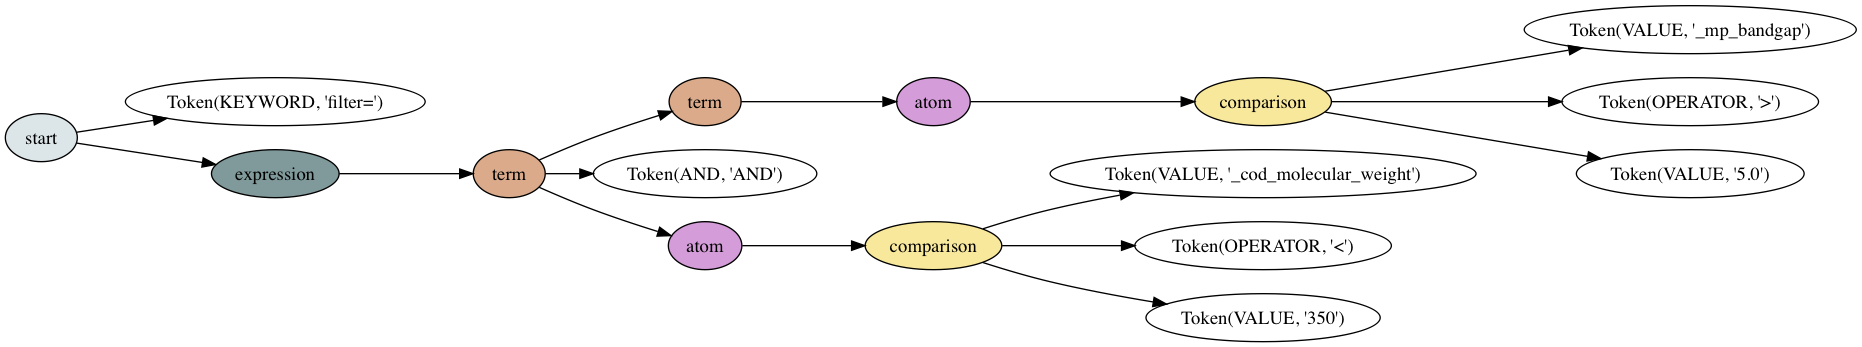
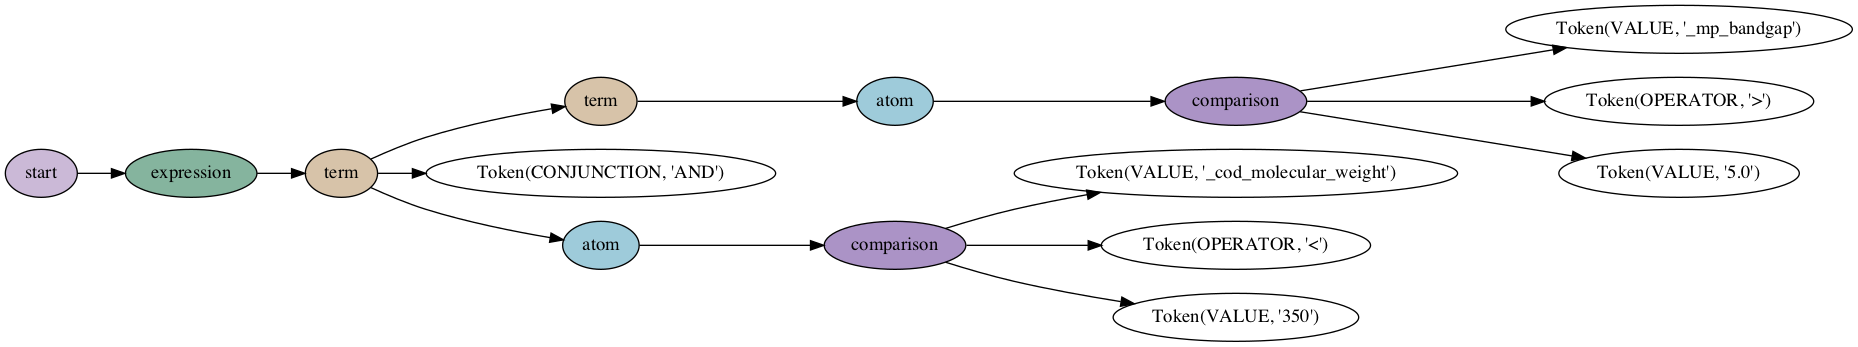
Update readme

diff --git a/README.md b/README.md
@@ -15,8 +15,8 @@ This library is under development. Progress is expected during the [CECAM Worksh
 
 ### Developing
 
-1. Clone this repository to your computer and install the requirements
 ```
+# Clone this repository to your computer
 git clone git@github.com:Materials-Consortia/optimade-python-tools.git
 cd optimade-python-tools
 
@@ -24,7 +24,15 @@ cd optimade-python-tools
 conda create -n optimade python=3.6
 conda activate optimade
 
+# Install package and requirements in editable mode.
 pip install -e .
+
+# Optional: Install MongoDB (and set `USE_REAL_MONGO = yes` in optimade/server/congig.ini)
+# Below method installs in conda environment and
+# - starts server in background
+# - ensures and uses ~/dbdata directory to store data
+conda install -c anaconda mongodb
+mkdir -p ~/dbdata && mongod --dbpath ~/dbdata --syslog --fork 
 
 # Start a development server (auto-reload on file changes at http://localhost:5000
 uvicorn optimade.server.main:app --reload --port 5000
@@ -35,13 +43,6 @@ open http://localhost:5000/docs
 open http://localhost:5000/openapi.json
 ```
 
-2. (optional) Have yourself some test MongoDB data:
-```
-wget https://www.dropbox.com/s/v8rkfu4zfi6xl2o/optimade-structures-test.tar.gz?dl=0 -O optimade-structures-test.tar.gz
-tar zxvf optimade-structures-test.tar.gz
-mongorestore -d optimade -c structures dump/optimade/structures.bson.gz --gzip
-```
-
 ### ===For now, be cautious about the below sections. They may not be up to date===
 
 ### Getting Started
@@ -49,28 +50,34 @@ mongorestore -d optimade -c structures dump/optimade/structures.bson.gz --gzip
 Install via `pip install optimade`. Example use:
 
 ```python
-from optimade.filter import Parser
+from optimade.filterparser import Parser
 
-p = Parser(version=(0, 9, 5))
-p.parse("filter=a<3")
+p = Parser(version=(0,9,7))
+tree = p.parse("nelements<3")
+print(tree)
 ```
 ```
 Tree(start, [Token(KEYWORD, 'filter='), Tree(expression, [Tree(term, [Tree(atom, [Tree(comparison, [Token(VALUE, 'a'), Token(OPERATOR, '<'), Token(VALUE, '3')])])])])])
 ```
 ```python
-p = Parser()
-p.version
-```
-```
-(0, 9, 5)
-```
-```python
-tree = p.parse('filter=_mp_bandgap > 5.0 AND _cod_molecular_weight < 350')
-print(p)
+print(tree.pretty())
 ```
 ```
 start
-  filter=
+  expression
+    term
+      atom
+        comparison
+          nelements
+          <
+          3
+```
+```python
+tree = p.parse('_mp_bandgap > 5.0 AND _cod_molecular_weight < 350')
+print(tree.pretty())
+```
+```
+start
   expression
     term
       term
@@ -87,7 +94,7 @@ start
           350
 ```
 ```python
-# Assumes graphviz installed on system and `pip install pydot`
+# Assumes graphviz installed on system (e.g. `conda install -c anaconda graphviz`) and `pip install pydot`
 from lark.tree import pydot__tree_to_png
 
 pydot__tree_to_png(tree, "exampletree.png")
@@ -95,28 +102,27 @@ pydot__tree_to_png(tree, "exampletree.png")
 ![example tree](exampletree.png)
 
 ### Flow for Parsing User-Supplied Filter and Converting to Backend Query
-`Parser` will take user input to generate a tree and feed that to a `Converter` which will turn that tree into your desired query language.
-![Optimade General Procedure](optimade_general_procedure.jpg)
 
+`optimade.filterparser.Parser` will take user input to generate a `lark.Tree` and feed that to a `lark.Transformer`
+(for example, `optimade.filtertransformers.mongo.MongoTransformer`), which will turn that tree into something useful
+to your backend (for example, a MongoDB query `dict`.)
 
-###### Example: Converting to MongoDB Query Syntax
-The `Parser` class from `optimade/filter.py` will transform user input into a `Lark` tree using  [lark-parser](https://github.com/lark-parser/lark).
+```python
+# Example: Converting to MongoDB Query Syntax
+from optimade.filtertransformers.mongo import MongoTransformer
 
-The `Lark` tree will then be passed into a desired `converter`, for instance, the `mongoconverter` located at `optimade/converter/mongoconverter` for transformation into your desired database query language. We have adapted our mongoconverter by using the [python query language(pql)](https://github.com/alonho/pql)
+transformer = MongoTransformer()
 
-![Optimade to Mongodb Procedure](optimade_to_mongodb_procedure.jpg)
-
-Usage examples for `mongoconverter` script:
-```bash
-$ mongoconverter "filter=a<3"
-{'a': {'$lt': 3.0}}
-$ mongoconverter "filter=_mp_bandgap > 5.0 AND _cod_molecular_weight < 350"
+tree = p.parse('_mp_bandgap > 5.0 AND _cod_molecular_weight < 350')
+query = transformer.transform(tree)
+print(query)
+```
+```
 {'$and': [{'_mp_bandgap': {'$gt': 5.0}}, {'_cod_molecular_weight': {'$lt': 350.0}}]}
 ```
 
-### Developing New Filter Converters
-If you would like to add your converter, for instance, a OPTIMade to NoSQL converter, please
-1. add your project in the `optimade/converter` folder,
-2. add any requirements in the `requirements.txt`,
-3. if you wish to have a console entry point, add the that to the `console_scripts` in the `setup.py` file
-4. and run `pip install -r requirements.txt` and `pip install -e .`
+### Developing New Filter Transformers
+If you would like to add a new transformer, please add
+1. a module (.py file) in the `optimade/filtertransformers` folder,
+2. any additional Python requirements in `setup.py` and `requirements.txt`,
+3. tests in `optimade/filtertransformers/tests`.
